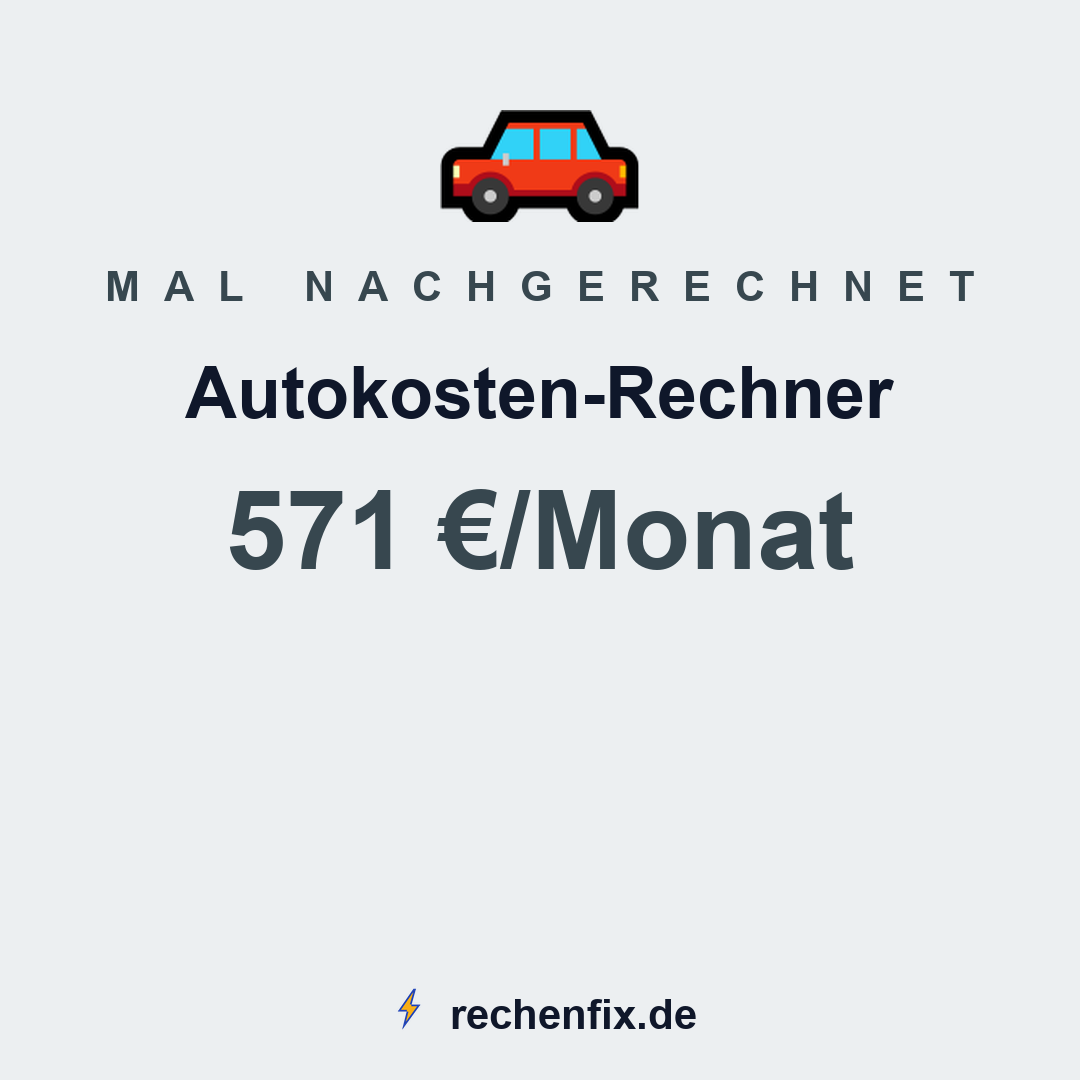
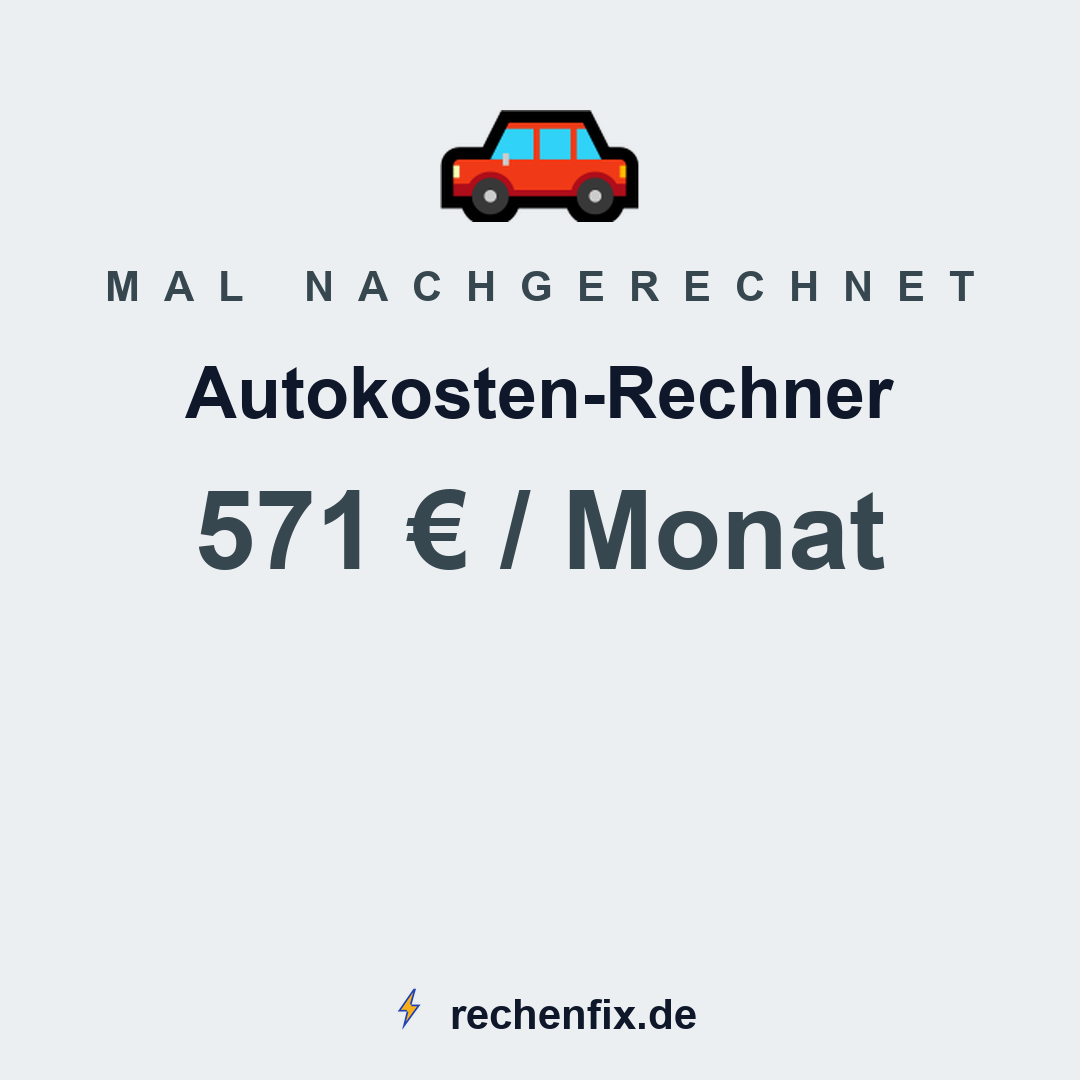
Welle 40: veraltete Social-Bilder an captions.json angeglichen + Regel zu erzeugten Artefakten in CLAUDE.md

Changed region(s): [[0.4889, 0.4278, 0.825, 0.55], [0.1833, 0.4278, 0.4583, 0.55]]

diff --git a/CLAUDE.md b/CLAUDE.md
@@ -942,3 +942,26 @@ Pro Sub-Welle:
 - Hotfix-Prompt: `welle<N>-w<N>-<sub>-<sub2>-hotfix-prompt.md`
 
 Lokale Ablage: `docs/welle<N>/`
+
+## Social-Post-Bilder (`public/social-posts/`)
+
+Die 160 PNG-Dateien in `public/social-posts/` sind **erzeugte Artefakte**. Sie entstehen lokal
+aus `scripts/social-image-builder.py` und beziehen die große Zahlenzeile aus dem Feld
+`socialHeadline` in `lib/social/captions.json`. Der Cron `/api/cron/social-post` erzeugt keine
+Bilder — er postet ausschließlich die im Repo liegenden Dateien, die Vercel ausliefert.
+
+Daraus folgen drei Regeln:
+
+1. **Wird `socialHeadline` oder ein anderes bildwirksames Feld in `lib/social/captions.json`
+   geändert, müssen die betroffenen Bilder in derselben Welle neu erzeugt und mitcommittet
+   werden.** Sonst liefert die Website Kacheln aus, die nicht mehr zu ihrer eigenen Datenquelle
+   passen. Genau das ist bei `autokosten-rechner` und `kalorienrechner` passiert.
+2. **Bilder in `public/social-posts/` werden nur in einer eigenen, dafür vorgesehenen Welle neu
+   erzeugt und committet** — nie beiläufig als Nebenprodukt einer anderen Arbeit.
+3. **Nach jedem lokalen Lauf des Bildgenerators gehört ein `git status --short` dazu.** Was dort
+   erscheint, wird bewusst committet oder verworfen. Liegenlassen ist die schlechteste Variante,
+   weil die Dateien beim nächsten weiten `git add` unbemerkt mitrutschen.
+
+Für Wellen allgemein gilt daraus abgeleitet: Am Ende einer Welle darf `git status --short` nichts
+außer `lib/rechner-config/client-data.ts` zeigen. Taucht etwas anderes auf, ist das ein Befund
+und wird gemeldet — nicht stillschweigend mitgenommen.
